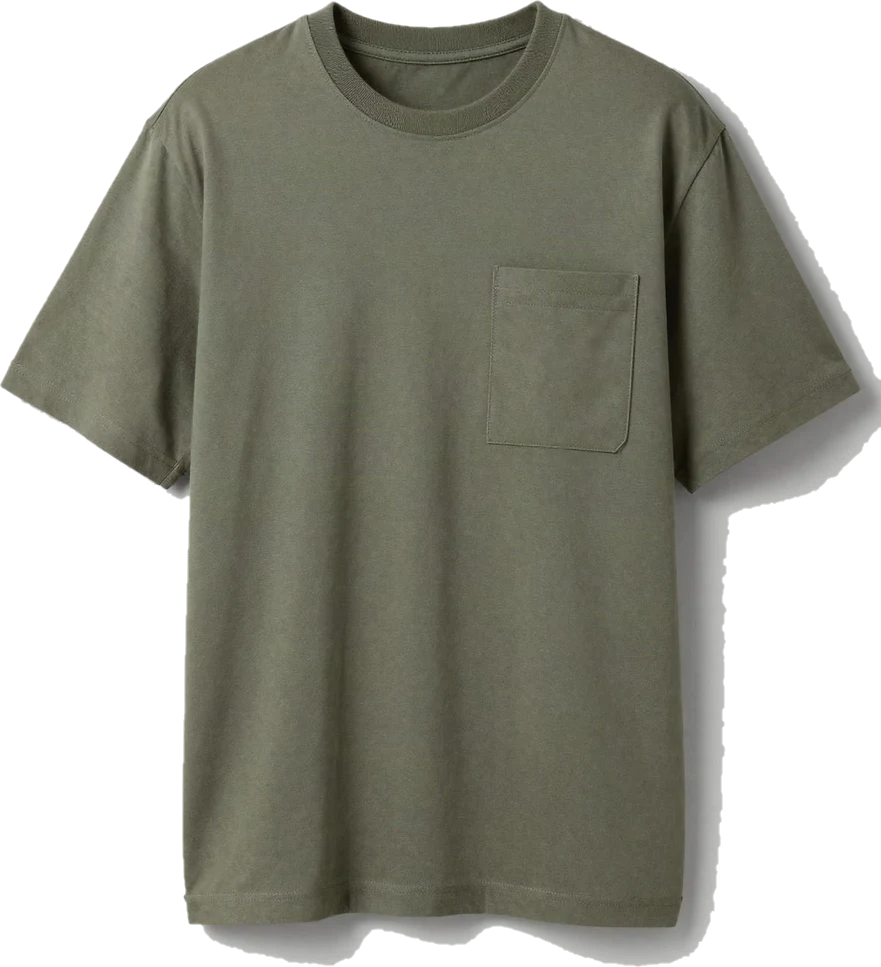
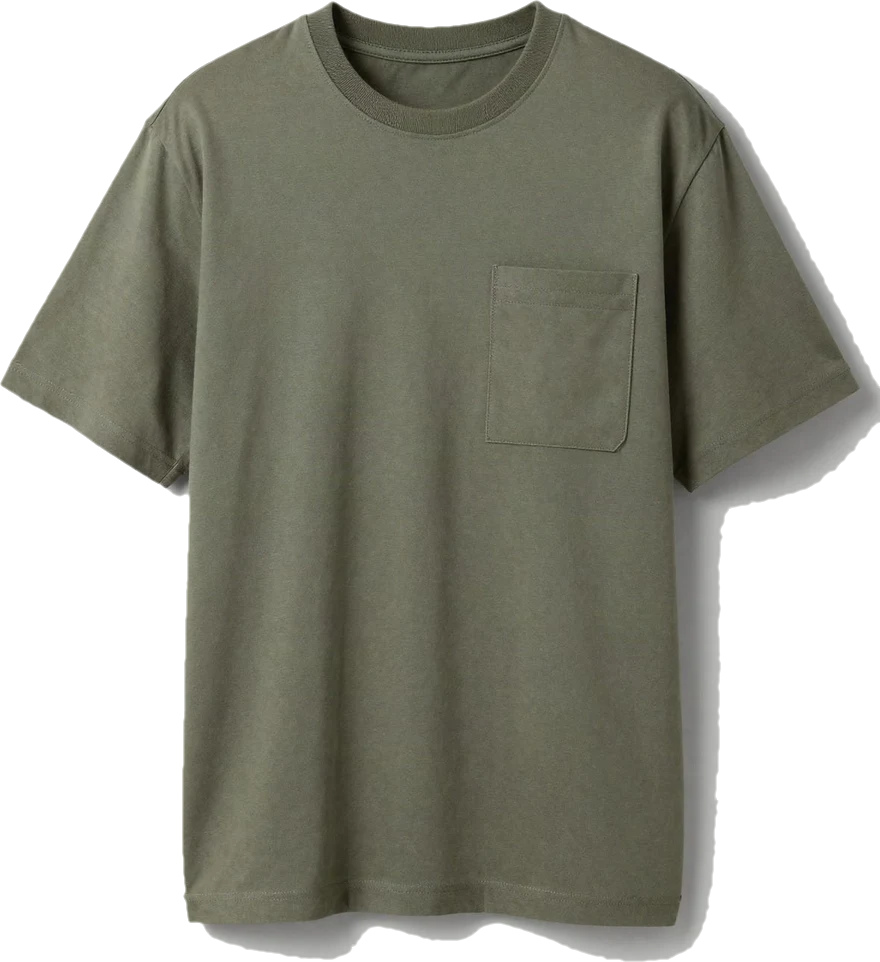
Hero wardrobe: cleaner cut-outs, and each piece hangs clear on its own hanger
The cut-outs are pulled in so no pale rim of studio grey is left, the
pieces are spaced so the hangers show and nothing piles up, and the lower
rail fits inside the stage.

diff --git a/src/components/hero-rack.tsx b/src/components/hero-rack.tsx
@@ -36,9 +36,9 @@ const CUTOUTS = new Set([
 // How wide each piece hangs relative to its slot, and how far it sits up over its hanger (tops
 // cover the hanger's shoulders; trousers hang from its clips; a cap hangs from a short hook).
 const fit: Record<Category, { w: string; tuck: string }> = {
-  tees: { w: "w-[112%]", tuck: "-mt-[25%]" },
-  hoodies: { w: "w-[116%]", tuck: "-mt-[30%]" },
-  jackets: { w: "w-[116%]", tuck: "-mt-[28%]" },
+  tees: { w: "w-[104%]", tuck: "-mt-[21%]" },
+  hoodies: { w: "w-[106%]", tuck: "-mt-[27%]" },
+  jackets: { w: "w-[106%]", tuck: "-mt-[24%]" },
   bottoms: { w: "w-[54%]", tuck: "-mt-[7%]" },
   "co-ords": { w: "w-[86%]", tuck: "-mt-[24%]" },
   accessories: { w: "w-[70%]", tuck: "-mt-[2%]" },
@@ -80,7 +80,7 @@ export function HeroRack({ top, bottom }: { top: RackPiece[]; bottom: RackPiece[
           const i = offset + n;
           const on = i === active;
           return (
-            <li key={product.id} className={`relative -mx-[22px] w-[96px] shrink-0 sm:-mx-[26px] sm:w-[120px] xl:-mx-[30px] xl:w-[150px] ${on ? "z-10" : ""}`}>
+            <li key={product.id} className={`relative -mx-[18px] w-[96px] shrink-0 sm:-mx-[16px] sm:w-[120px] xl:-mx-[22px] xl:w-[150px] ${on ? "z-10" : ""}`}>
               <button
                 type="button"
                 onClick={() => setActive(i)}
